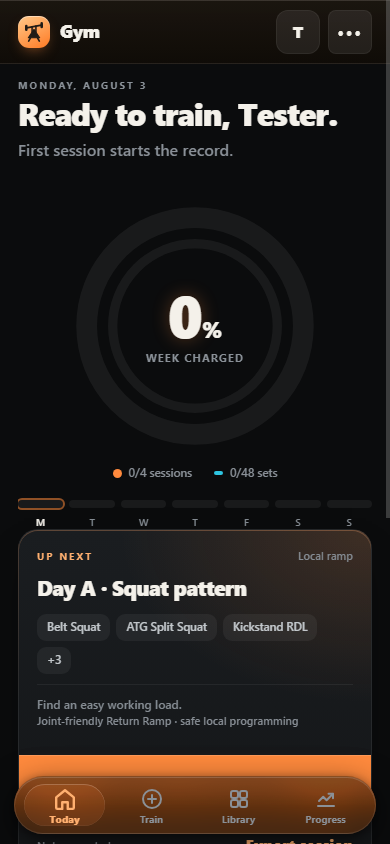
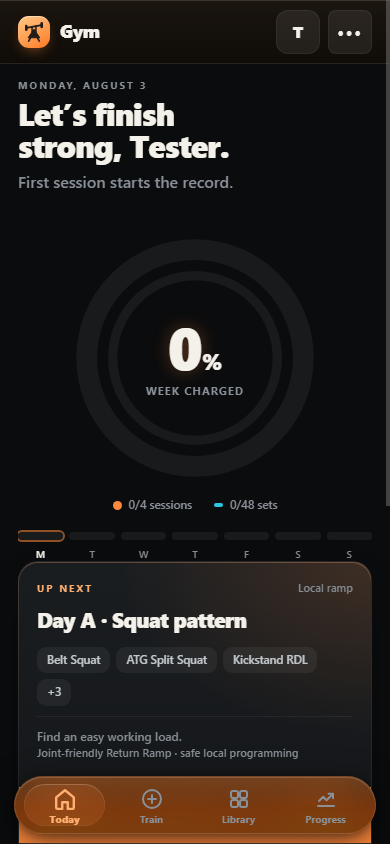
Train filter rail spacing, measured rather than eyeballed
Mark: the sessions list sits too close to the chips above it. Measured against the
prototype and he is right - the rail inherited .filter-row's 13px -18px 4px, so:
  rail -> list gap   4px   should be 12px
  rail top margin   13px   should be 0
  rail padding      0 32px 0 18px   should be 0 18px
Row height (71px) and the section heading margin (24 0 10) already matched, which
is why it looked NEARLY right.

WHY THIS SLIPPED, worth recording: when I diffed Train I matched COMPOSITION -
hero, kicker headings, rows, shelf, correct order - and never measured the METRICS
between blocks. Structural parity is not spacing parity, and gaps were only ever
eyeballed against a screenshot. A real design diff has to read computed
margin/padding/gap on both sides, not just confirm the same elements are present.

Gates: 225/225, browser-flow ok, layout-check ok, contrast-guard 1012/0.

diff --git a/styles.css b/styles.css
@@ -1969,3 +1969,9 @@ input,select,textarea{font-size:16px}
 .done-card .done-row{flex:1;min-width:0}
 .done-grip{width:44px;height:44px;flex:none;margin-right:8px;display:grid;place-items:center;
   border:0;background:transparent;color:var(--taupe);border-radius:var(--r-control);touch-action:none}
+
+/* ---- Train filter rail spacing, measured against the prototype ----
+   Ours inherited .filter-row's `13px -18px 4px` margin, so the sessions list sat 4px under the
+   chips instead of 12px, and the chips carried a 13px top margin the design does not have.
+   Prototype: margin 0 -20px 12px / padding 0 20px (our page gutter is 18px, so -18/18). */
+#workoutGoals{margin:0 -18px 12px;padding:0 18px;gap:7px}

diff --git a/sw.js b/sw.js
@@ -1,4 +1,4 @@
-const CACHE='gym-w45-20260803-thoracic';
+const CACHE='gym-w46-20260803-spacing';
 self.addEventListener('notificationclick',event=>{event.notification.close();event.waitUntil(self.clients.matchAll({type:'window'}).then(list=>list[0]?list[0].focus():self.clients.openWindow('./')));});
 // Update is user-controlled (release truth): no auto-skipWaiting on install - the waiting worker sits
 // until the app's "Update ready" pill posts SKIP_WAITING, so a refresh is never yanked mid-set.

diff --git a/build.js b/build.js
@@ -1,3 +1,3 @@
 // Release-truth build id. Baked into sw.js CACHE ('gym-'+BUILD) and shown in Settings.
 // Bump on every deploy so the update pill and cache invalidation stay honest.
-const BUILD = 'w45-20260803-thoracic';
+const BUILD = 'w46-20260803-spacing';
